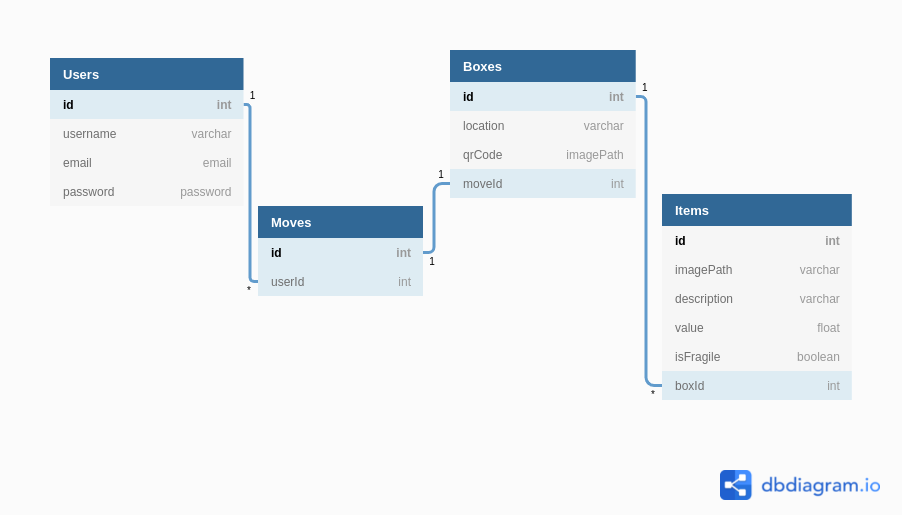
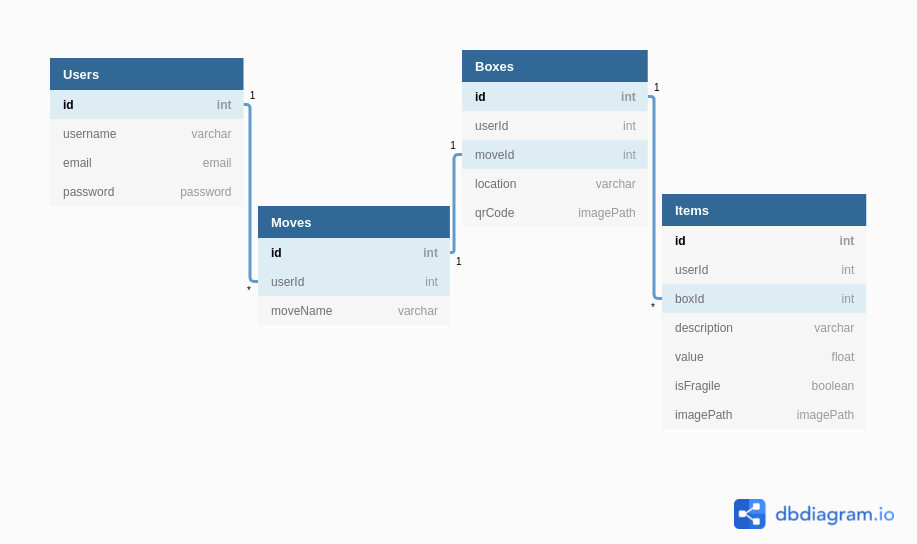
fix: refactor code to display box/items.

Changed region(s): [[0.0621, 0.0932, 0.9623, 0.7767], [0.7761, 0.901, 0.9933, 0.9942], [0.8692, 0.7456, 0.9313, 0.7767]]

diff --git a/src/components/ApplicationViews.jsx b/src/components/ApplicationViews.jsx
@@ -11,6 +11,7 @@ import { BoxDetail } from "./boxes/BoxDetail"
 import { MoveProvider } from "./moves/MoveProvider"
 import { MoveList } from "./moves/MoveList"
 import { MoveDetail } from "./moves/MoveDetail"
+import { UserProvider } from "./users/UserProvider"
 
 
 // import { Home } from "./Home"
@@ -18,7 +19,7 @@ import { MoveDetail } from "./moves/MoveDetail"
 export const ApplicationViews = () => {
  return (
   <>
-  <MoveProvider><BoxProvider><ItemProvider>
+  <UserProvider><MoveProvider><BoxProvider><ItemProvider>
     <Route exact path="/users">
         <UserPage />
     </Route>
@@ -55,7 +56,7 @@ export const ApplicationViews = () => {
         <ItemList />
     </Route> */}
   
-  </ItemProvider></BoxProvider></MoveProvider>
+  </ItemProvider></BoxProvider></MoveProvider></UserProvider>
    {/* Render the animal list when http://localhost:3000/locations */}
    {/* <LocationProvider> */}
     {/* <Route exact path="/locations"> */}

diff --git a/src/components/moves/MoveList.jsx b/src/components/moves/MoveList.jsx
@@ -51,8 +51,8 @@ export const MoveList = () => {
  }, []) // useEffect
 
   const movesData = moves.filter(move => move.userId === loggedInUserId)
-  const boxesData = boxes.filter(box => movesData.find(move => box.moveId === move.id))
-  const itemsData = items.filter(item => boxesData.find(box => item.boxId === box.id))
+  const boxesData = boxes.filter(box => box.userId === loggedInUserId)
+  const itemsData = items.filter(item => item.userId === loggedInUserId)
   const loggedInUserObj = moves.find(move => move.userId === loggedInUserId)
 
    movesData.forEach(move => {

diff --git a/src/components/summary/SummaryList.jsx b/src/components/summary/SummaryList.jsx
@@ -27,12 +27,12 @@ export const SummaryList = ({ loggedInUserId }) => {
 
   const boxesData = {
     type: "boxes",
-    collection: boxes.filter(box => movesData.collection.find(move => box.moveId === move.id))
+    collection: boxes.filter(box => box.userId === loggedInUserId)
   }
 
   const itemsData = {
     type: "items",
-    collection: items.filter(item => boxesData.collection.find(box => item.boxId === box.id))
+    collection: items.filter(item => item.userId === loggedInUserId)
   }
   
   const loggedInUser= moves.find(move => move.userId === loggedInUserId)

diff --git a/src/components/summary/Summary.jsx b/src/components/summary/Summary.jsx
@@ -12,7 +12,6 @@ export const Summary = ({ listType }) => {
    <div className="summary__buttons">
     <h2 className="summary__moveType">{ listType.data.type }</h2>
     <Link to={`/${listType.data.type}`}><button className="summary__linkBtn--view" >View</button></Link>
-    <Link to="/"><button className="summary__linkBtn--edit" >Edit</button></Link>
     <Link to="/"><button className="summary__linkBtn--delete" >Delete</button></Link>
    </div>
   </section>
